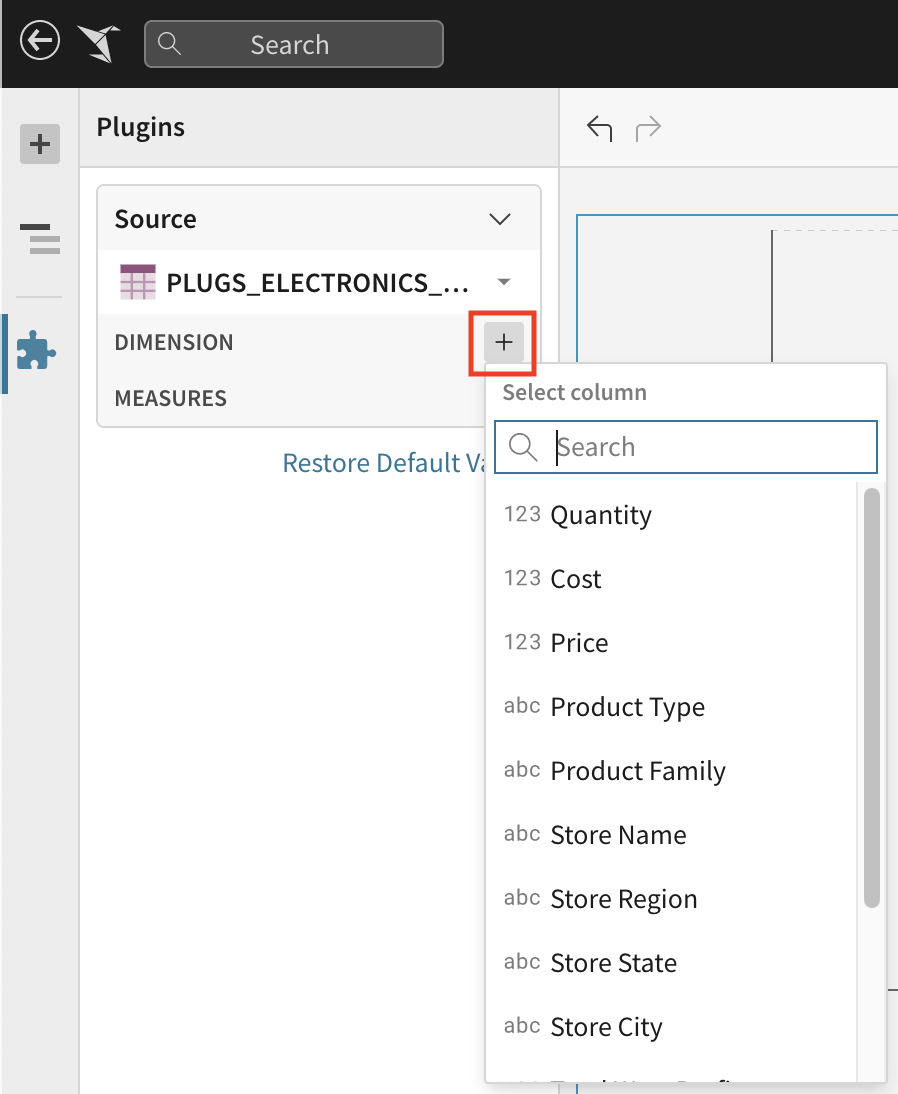
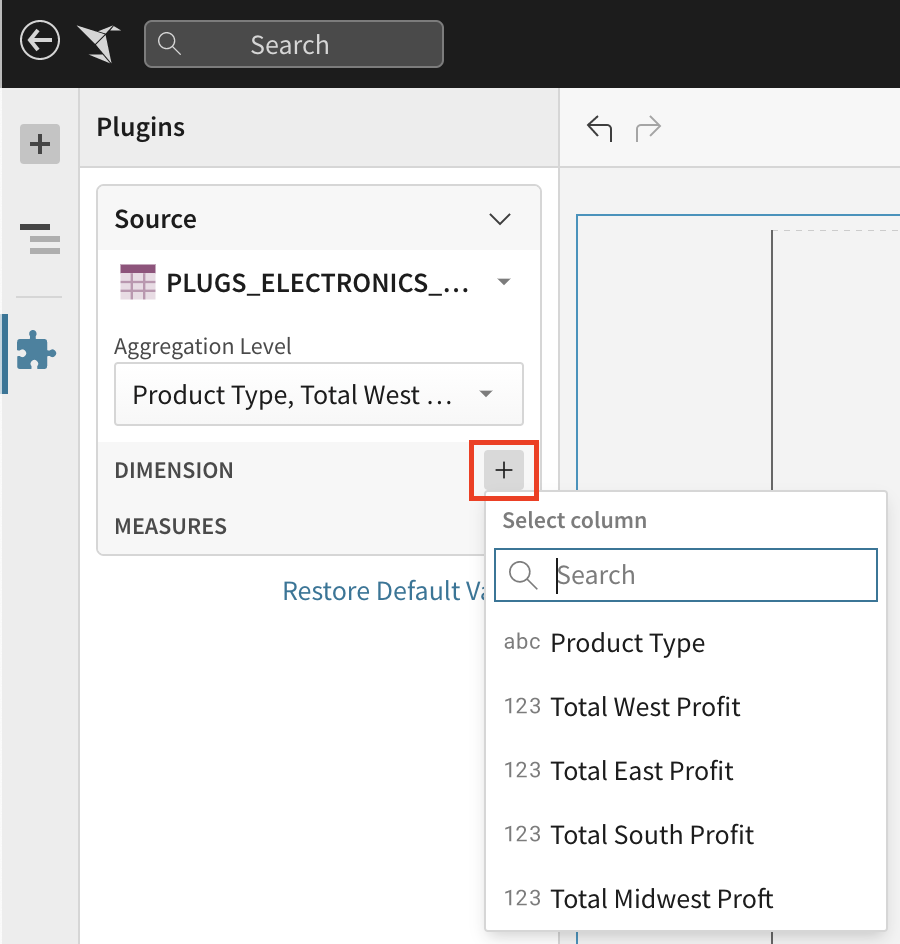
remove some boilerplate, update readme to include aggregation level dropdown

diff --git a/recharts-bar-chart/public/index.html b/recharts-bar-chart/public/index.html
@@ -8,16 +8,6 @@
       name="description"
       content="Web site created using create-react-app"
     />
-    <link rel="apple-touch-icon" href="%PUBLIC_URL%/logo192.png" />
-    <!--
-      Notice the use of %PUBLIC_URL% in the tags above.
-      It will be replaced with the URL of the `public` folder during the build.
-      Only files inside the `public` folder can be referenced from the HTML.
-
-      Unlike "/favicon.ico" or "favicon.ico", "%PUBLIC_URL%/favicon.ico" will
-      work correctly both with client-side routing and a non-root public URL.
-      Learn how to configure a non-root public URL by running `npm run build`.
-    -->
     <title>Sigma Sample Plugin - Recharts Bar Chart</title>
   </head>
   <body>

diff --git a/recharts-bar-chart/README.md b/recharts-bar-chart/README.md
@@ -41,12 +41,16 @@ Select your source data table by selecting it in the "Select..." dropdown menu
 
 <img src="readme_images/select-source.png" alt="screenshot of 'Select...' dropdown" width="300">
 
+If you have groupings in your data table that you wish for this plugin to take into account, select an option from the "Aggregation Level" dropdown menu.
+
+<img src="readme_images/aggregation-level.png" alt="screenshot of aggregation level dropdown" width="300">
+
 Select your dimension and measure(s) by clicking on the "+" symbol next to these categories and then selecting the columns you want to use from your source data table.
 
 - **Note:** For this plugin specifically, the chart that is produced will only display the first three measures that you select as bars in order to conserve space.
 
-<img src="readme_images/add-dimension.png" alt="screenshot of dimension column selection" height="400">
-<img src="readme_images/add-measures.png" alt="screenshot of measure columns selection" height="400" align="top">
+<img src="readme_images/add-dimension.png" alt="screenshot of dimension column selection" height="315">
+<img src="readme_images/add-measures.png" alt="screenshot of measure columns selection" height="315" align="top">
 
 You should now be able to view the bar chart representation of your data!
 
